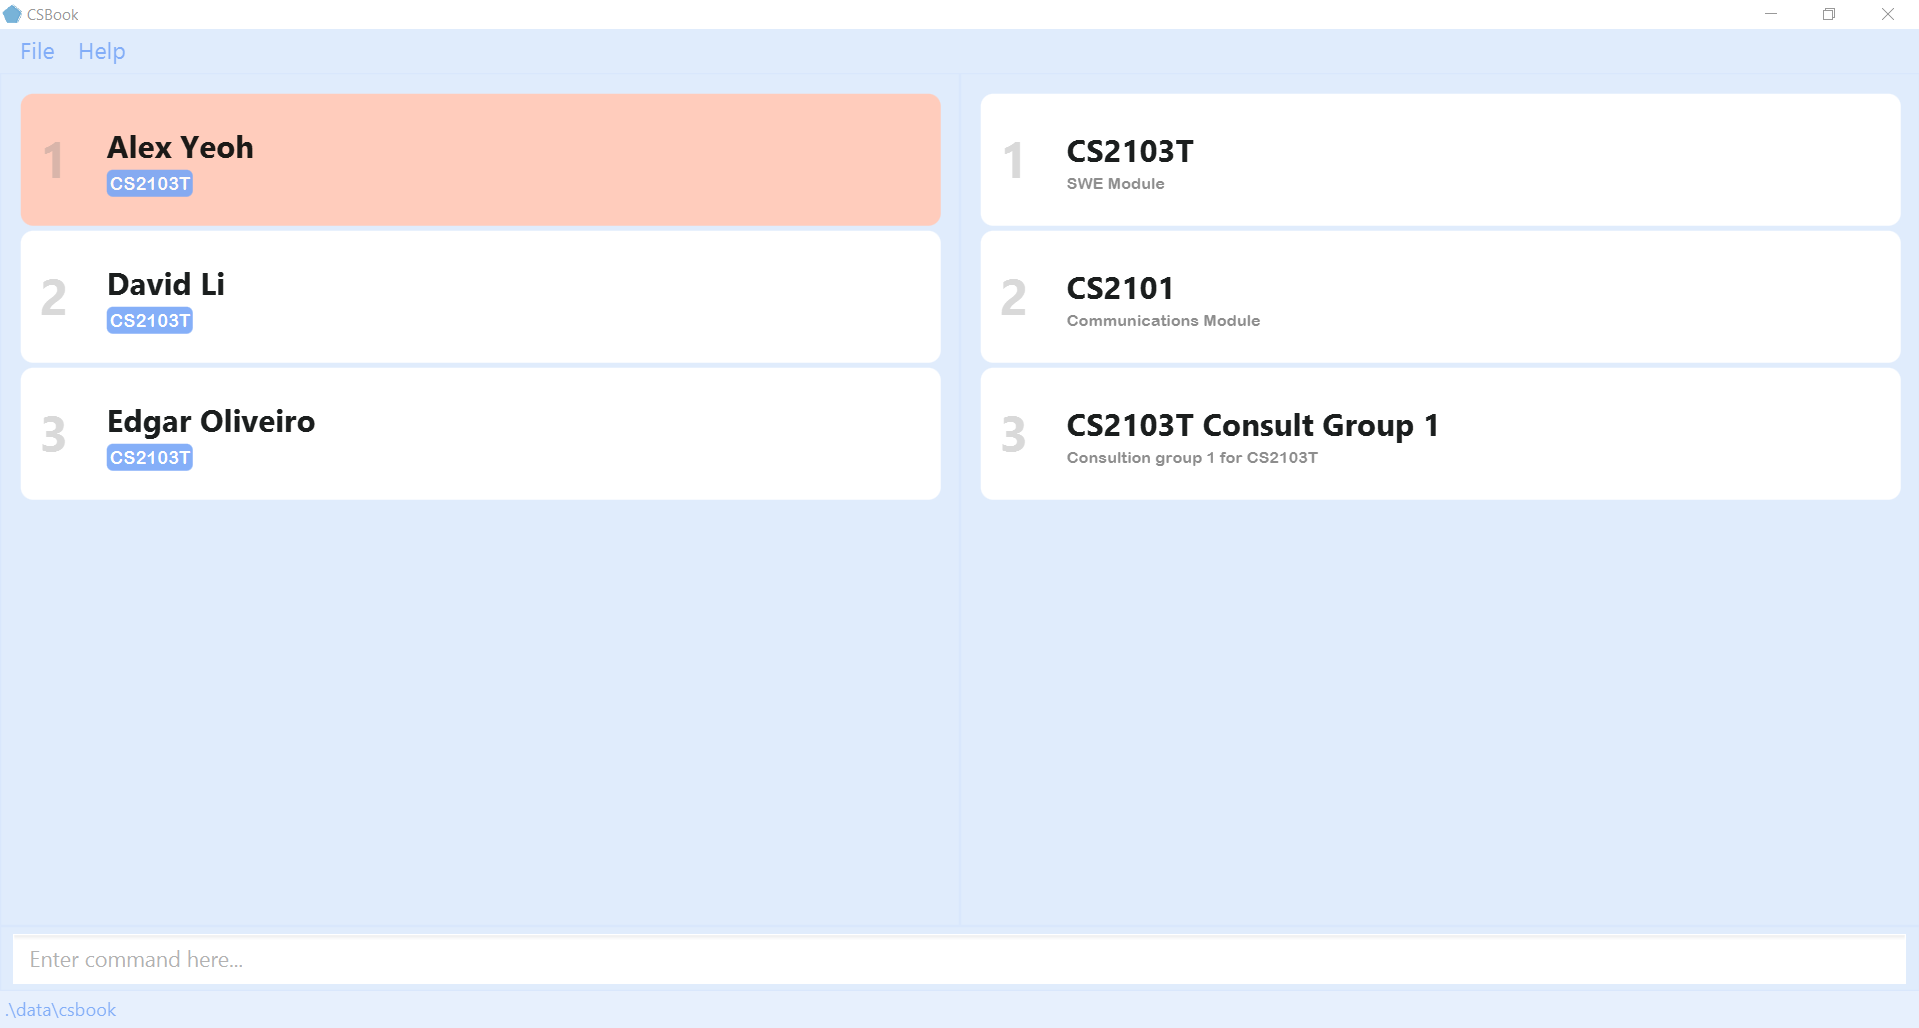
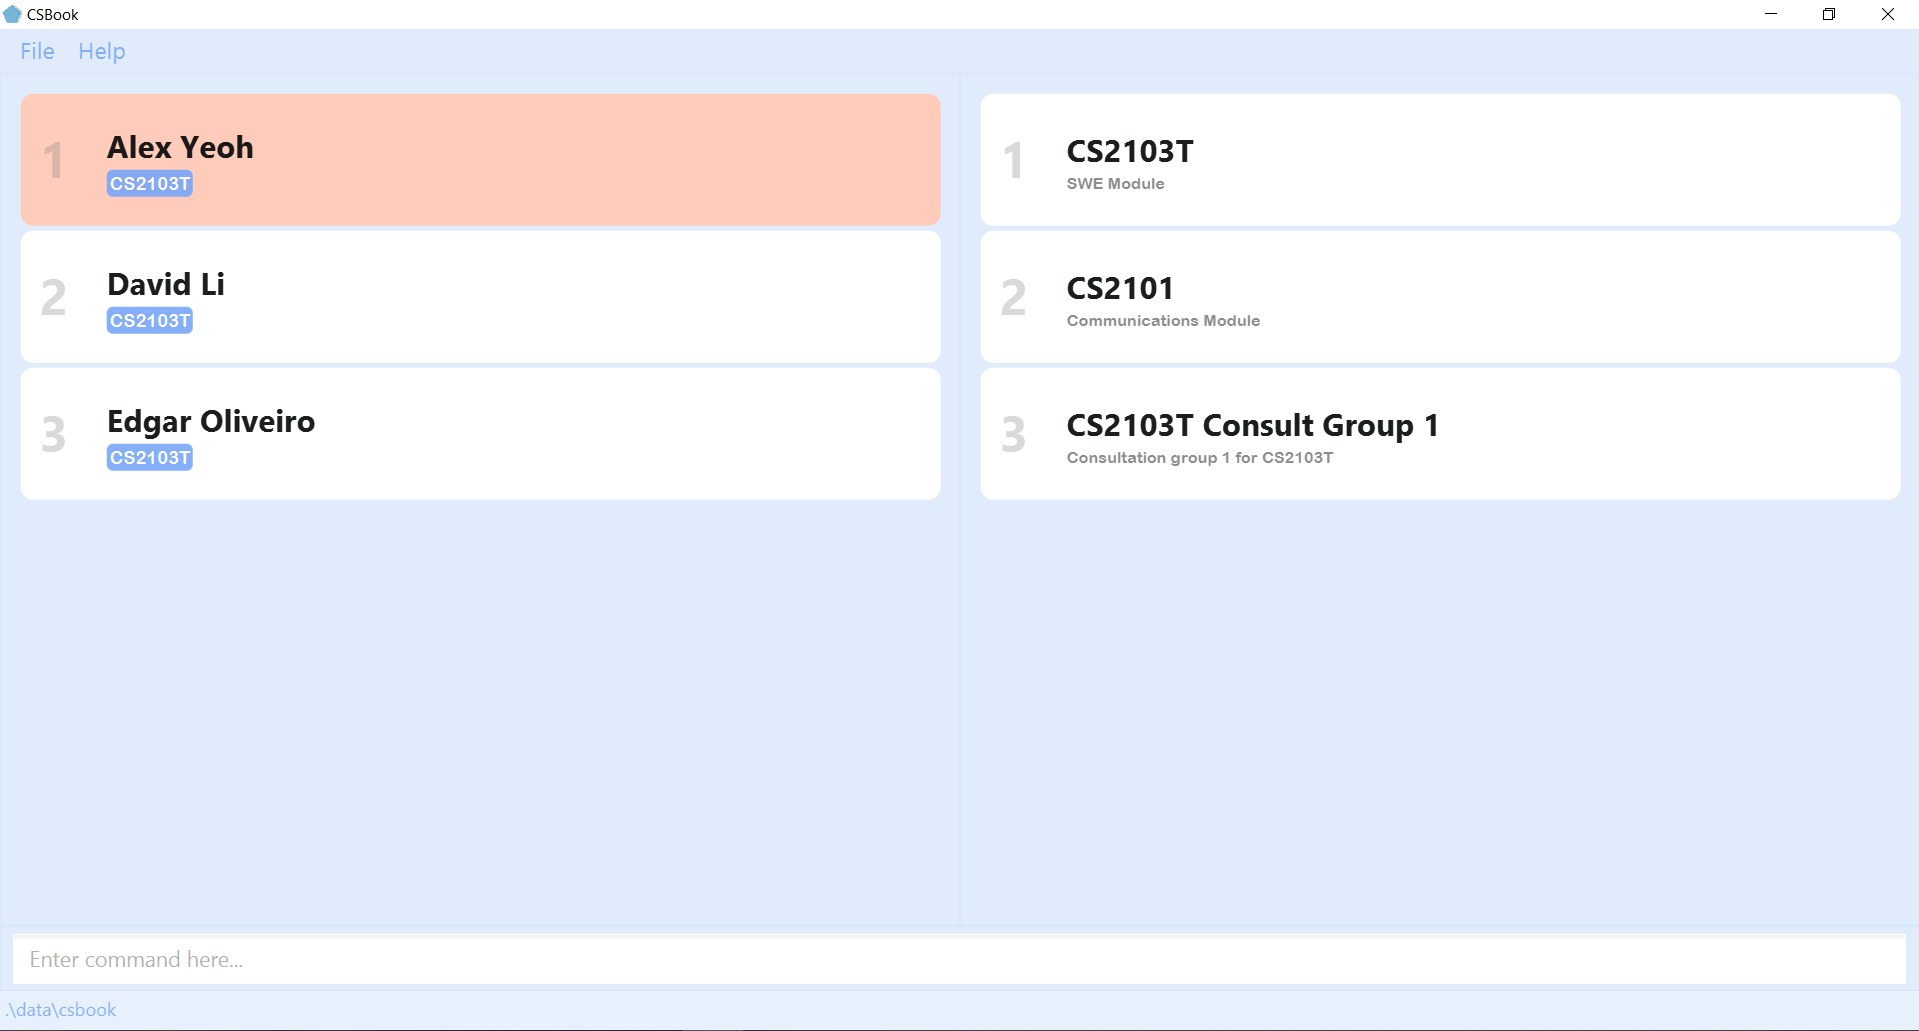
Fix issues with UG and adjust AddAssessmentCommand and DeleteAssessmentCommand message usage

diff --git a/src/main/java/seedu/address/logic/commands/DeleteAssessmentCommand.java b/src/main/java/seedu/address/logic/commands/DeleteAssessmentCommand.java
@@ -24,9 +24,9 @@ public class DeleteAssessmentCommand extends Command {
     public static final String MESSAGE_USAGE = COMMAND_WORD
             + ": Deletes the assessment from the student identified by the index number used in the displayed"
             + " student list.\n"
-            + "Parameters: INDEX (must be a positive integer)\n"
-            + PREFIX_ASSESSMENT_NAME + "ASSESSMENT NAME "
-            + "Example: " + COMMAND_WORD + " 1"
+            + "Parameters: INDEX (must be a positive integer) "
+            + PREFIX_ASSESSMENT_NAME + "ASSESSMENT NAME\n"
+            + "Example: " + COMMAND_WORD + " 1 "
             + PREFIX_ASSESSMENT_NAME + "Midterms";
 
     public static final String MESSAGE_DELETE_ASSESSMENT_SUCCESS = "Deleted Assessment: %1$s";

diff --git a/src/main/java/seedu/address/logic/commands/AddAssessmentCommand.java b/src/main/java/seedu/address/logic/commands/AddAssessmentCommand.java
@@ -21,11 +21,11 @@ public class AddAssessmentCommand extends Command {
 
     public static final String COMMAND_WORD = "addassessment";
 
-    public static final String MESSAGE_USAGE = COMMAND_WORD + ": Adds a student's assessment to the address book. "
+    public static final String MESSAGE_USAGE = COMMAND_WORD + ": Adds a student's assessment to the address book.\n"
             + "Parameters: "
             + "INDEX (must be a positive integer) "
             + PREFIX_ASSESSMENT_NAME + "ASSESSMENT NAME "
-            + PREFIX_SCORE + "SCORE "
+            + PREFIX_SCORE + "SCORE\n"
             + "Example: " + COMMAND_WORD + " 1 "
             + PREFIX_ASSESSMENT_NAME + "Midterms "
             + PREFIX_SCORE + "60" + SCORE_DELIMITER + "100 ";

diff --git a/src/main/java/seedu/address/model/util/SampleDataUtil.java b/src/main/java/seedu/address/model/util/SampleDataUtil.java
@@ -70,7 +70,7 @@ public class SampleDataUtil {
         return new Group[]{
             new Group(new GroupName("CS2103T"), new Description("SWE Module")),
             new Group(new GroupName("CS2101"), new Description("Communications Module")),
-            new Group(new GroupName("CS2103T Consult Group 1"), new Description("Consultion group 1 for CS2103T"))
+            new Group(new GroupName("CS2103T Consult Group 1"), new Description("Consultation group 1 for CS2103T"))
         };
     }
 

diff --git a/docs/UserGuide.md b/docs/UserGuide.md
@@ -21,7 +21,7 @@ section of the user guide.
 
 This user guide will bring you through **how to quickly start using our application through the [Quick Start](#quick-start) section**, while also serving as a **reference to more experienced users in the [Feature List](#feature-list) section**, where notes and tips on how best to make use of our application will also be given.
 
-**If you face any difficult while following the user guide, do refer to the [FAQ section](#faq)** to see if your issue has been addressed there. If the solution provided or your query has yet to be answered in the FAQ section, feel free to reach out to our team lead, Erin Ong, at [e0559779@u.nus.edu](mailto:e0559779@u.nus.edu) through email.
+**If you face any difficulty while following the user guide, do refer to the [FAQ section](#faq)** to see if your issue has been addressed there. If the solution provided or your query has yet to be answered in the FAQ section, feel free to reach out to our team lead, Erin Ong, at [e0559779@u.nus.edu](mailto:e0559779@u.nus.edu) through email.
 
 --------------------------------------------------------------------------------------------------------------------
 
@@ -41,11 +41,14 @@ This user guide will bring you through **how to quickly start using our applicat
 
     * **`list`** : Lists all students currently stored.
    
-    * **`addgroup`**`g/CS2100 d/Computer Organisation` : Adds a group named `CS2101` with a simple description to CSBook
+    * **`addgroup`** `g/CS2100 d/Computer Organisation` : Adds a group named `CS2100` with the description `Computer Organisation` to CSBook
 
-    * **`add`**`n/Jia Xian t/@albino_monkii e/albinomonkey@u.nus.edu g/CS2101` : Adds a student named `Jia Xian` to CSBook
-
-    * **`delete`**`3` : Deletes the 3rd student shown in the current list.
+    * **`add`** `n/Jia Xian t/@albino_monkii e/albinomonkey@gmail.com g/CS2101` : Adds a student named `Jia Xian` to CSBook. The student has the following details:
+        * Telegram Handle: `@albino_monkii`
+        * Email: `albinomonkey@gmail.com`
+        * Group: `CS2101`
+    
+    * **`delete`** `3` : Deletes the 3rd student shown in the current list.
 
     * **`clear`** : Deletes all students and groups.
 
@@ -95,10 +98,10 @@ These icons will appear within coloured boxes to indicate
   e.g. if the command specifies `n/NAME t/TELEGRAM_HANDLE`, `t/TELEGRAM_HANDLE n/NAME` is also acceptable.
 
 * Optional parameters/fields will be indicated within square brackets.
-  e.g. if the command specifies `edit INDEX [n/NAME] [t/TELEGRAM_HANDLE] [e/NUS_EMAIL] [g/GROUP_NAME]`, `edit 1 n/Jiaxian` or `edit 1 n/Jiaxian t/@albino_monkey e/e0540014X@u.nus.edu g/CS2103T` are both acceptable commands
+  e.g. if the command specifies `edit INDEX [n/NAME] [t/TELEGRAM_HANDLE] [e/EMAIL] [g/GROUP_NAME]`, `edit 1 n/Jiaxian` or `edit 1 n/Jiaxian t/@albino_monkey e/e0540014X@u.nus.edu g/CS2103T` are both acceptable commands
 
 * If a parameter is expected only once in the command but if you specified it multiple times, only the last occurrence of the parameter will be taken.<br>
-  e.g. if you specify `t/albino_monkii t/albino_api`, only `t/albino_api` will be taken.
+  e.g. if you specify `t/@albino_monkii t/@albino_api`, only `t/@albino_api` will be taken.
 
 * Extraneous parameters for commands that do not take in parameters (such as `help`, `list`, `exit` and `clear`) will be ignored.<br>
   e.g. if the command specifies `help 123`, it will be interpreted as `help`.
@@ -153,7 +156,7 @@ CSBook data are saved in the hard disk automatically after any command that chan
 
 CSBook data are saved as an JSON file at `[JAR file location]/data/csbook`. Advanced users are welcome to update data directly by editing that data file. 
 
-Note that if the encrypt function is turned on, the data will be saved in an encrypted JSON format. In which case, users are highly advised to **NOT** edit the data file directly and only manipulate data through the commands provided.
+Note that if the encrypt function is turned on, the data will be saved in an encrypted JSON format. In which case, users are highly advised to decrypt the data file first through the `decrypt` command before editing the data file directly.
 
 <div markdown="span" class="alert alert-warning">:exclamation: **Caution:**
 If there are changes to the data file that makes its format invalid, CSBook will discard all data and start with an empty data file on the next run.<br/><br/>
@@ -171,7 +174,7 @@ If there are changes to the data file that makes its format invalid, CSBook will
 
 Adds a student to the CSBook.
 
-Format: `add n/NAME t/TELEGRAM_HANDLE e/NUS_EMAIL g/GROUP_NAME`
+Format: `add n/NAME t/TELEGRAM_HANDLE e/EMAIL g/GROUP_NAME`
 
 * Adds a new student into CSBook.
 * The group name must correspond to that of a group that has been added to CSBook before the student is created. Each student **MUST** belong to a group.
@@ -199,7 +202,7 @@ Format: `list`
 
 Edits an existing student in the CSBook.
 
-Format: `edit INDEX [n/NAME] [t/TELEGRAM_HANDLE] [e/NUS_EMAIL]`
+Format: `edit INDEX [n/NAME] [t/TELEGRAM_HANDLE] [e/EMAIL]`
 
 * Edits the student at the specified INDEX. The index refers to the index number shown in the displayed student list. The index **must be a positive integer** 1, 2, 3, …
 * At least one of the optional fields must be provided.
@@ -240,6 +243,7 @@ Format: `viewstudent NAME`
 * The full name of the student must be matched. e.g. `Alex` will not match `Alex Yeoh`
 * The student's details shown includes their full name, group, telegram handle, email, notes and assessments.
 * Individual assessments are coloured red if they fall below the passing threshold of 50%.
+* To go back to the main page with the list of students, use the `list` command.
 
 Examples:
 * `viewstudent David Li` returns `David Li`
@@ -252,7 +256,7 @@ Result of `viewstudent Irfan Ibrahim`:
 
 Adds an assessment for a student.
 
-Format: `addassessment INDEX a/ASSESSMENT_NAME S/SCORE`
+Format: `addassessment INDEX a/ASSESSMENT_NAME s/SCORE`
 
 * Adds a new assessment to the student at the specified `INDEX`
 * The index refers to the index number shown in the displayed student list.
@@ -294,6 +298,7 @@ Sets the note of the student to the given input.
 Format: `note n/NAME no/NOTE`
 
 * If a note exists, it will be overwritten with the new note.
+* An existing note can be cleared by having an empty `NOTE` parameter. i.e., `note n/NAME no/`
 
 Examples:
 * `note n/Charlotte Oliveiro no/Great with presentations` will replace the existing note `Very convincing presentations` with `Great with presentations`
@@ -337,7 +342,7 @@ Format: `addgroup g/GROUPNAME d/DESCRIPTION`
 * Creates a group with the specified `GROUPNAME` and `DESCRIPTION`.
 
 Examples:
-* `addgroup g/CS2100 d/Computer Organisation` creates a group called `CS2103T` and the description `Computer Organisation`
+* `addgroup g/CS2100 d/Computer Organisation` creates a group called `CS2100` and the description `Computer Organisation`
 that students can be added into.<br>
 
 
@@ -352,10 +357,10 @@ Views the students in a group.
 Format: `viewgroup g/GROUPNAME`
 
 Examples:
-* `viewgroup CS2103T` displays the students in `CS2103T`.
+* `viewgroup g/CS2103T` displays the students in `CS2103T`.
 
-Result of `viewgroup CS2103T`:
-  ![result for `viewgroup CS2103T`](images/viewGroupCS2103T.png)
+Result of `viewgroup g/CS2103T`:
+  ![result for `viewgroup g/CS2103T`](images/viewGroupCS2103T.png)
 
 #### Changing the group of a student: `changegroup`
 
@@ -372,12 +377,12 @@ Examples:
 
 Deletes the group with the specified group name as well as all students associated with the group.
 
-Format: `deletegroup GROUPNAME`
+Format: `deletegroup g/GROUPNAME`
 
 * Deletes the group with the specified `GROUPNAME` as well as all students associated with the group.
 
 Examples:
-* `deletegroup CS2103T` deletes the group `CS2103T` along with all students that are in the group.
+* `deletegroup g/CS2103T` deletes the group `CS2103T` along with all students that are in the group.
 
 ## Command summary
 
@@ -388,9 +393,9 @@ Action | Format, Examples
 **Encrypt** | `encrypt`
 **Decrypt** | `decrypt`
 **Exit** | `exit`
-**Add Student** | `add n/NAME t/TELEGRAM_HANDLE e/NUS_EMAIL g/GROUPNAME` <br> e.g., `add n/Jia Xian t/albino_monkii e/albinomonkey@u.nus.edu g/CS2103T`
+**Add Student** | `add n/NAME t/TELEGRAM_HANDLE e/EMAIL g/GROUPNAME` <br> e.g., `add n/Jia Xian t/@albino_monkii e/albinomonkey@u.nus.edu g/CS2103T`
 **List Students** | `list`
-**Edit Student** | `edit INDEX [n/NAME] [t/TELEGRAM_HANDLE] [e/NUS_EMAIL]`<br> e.g.,`edit 1 t/@albino_monkey e/e0540014X@u.nus.edu`
+**Edit Student** | `edit INDEX [n/NAME] [t/TELEGRAM_HANDLE] [e/EMAIL]`<br> e.g.,`edit 1 t/@albino_monkey e/e0540014X@u.nus.edu`
 **Find Students** | `find KEYWORD [MORE_KEYWORDS]`<br> e.g., `find oliveiro`
 **View Student** | `viewstudent NAME`<br> e.g., `viewstudent David Li`
 **Add Assessment** | `addassessment INDEX a/ASSESSMENT_NAME S/SCORE`<br> e.g., `addassessment 1 a/Midterms s/60/100`
@@ -398,9 +403,9 @@ Action | Format, Examples
 **Add Notes** | `note n/NAME no/NOTE`<br> e.g., `note n/Charlotte Oliveiro no/Great with presentations`
 **Delete Student** | `delete INDEX`<br> e.g., `delete 3`
 **Add Group** | `addgroup g/GROUPNAME d/DESCRIPTION`<br> e.g., `addgroup g/CS2100 d/Computer Organisation`
-**View Group** | `viewgroup g/GROUPNAME`<br> e.g., `viewgroup CS2103T`
+**View Group** | `viewgroup g/GROUPNAME`<br> e.g., `viewgroup g/CS2103T`
 **Change Group** | `changegroup n/NAME g/GROUPNAME`<br> e.g., `changegroup n/David Li g/CS2103T Consult Group 1`
-**Delete Group** | `deletegroup GROUPNAME`<br> e.g., `deletegropu CS2103T`
+**Delete Group** | `deletegroup g/GROUPNAME`<br> e.g., `deletegroup g/CS2103T`
 
 
 ## FAQ
@@ -409,3 +414,5 @@ Action | Format, Examples
     * You may run the `java -version` command on your respective operating system's (OS) terminal window.
     * Alternatively, if the above does not work, you may follow [this guide](https://www.java.com/en/download/help/version_manual.html) to determine the version of Java installed on your Computer
     * Note: Either versions of Java released by [Oracle](https://www.oracle.com/java/) or [OpenJDK](https://openjdk.java.net/) are compatible
+
+2. I have some font issues with my user interface.
